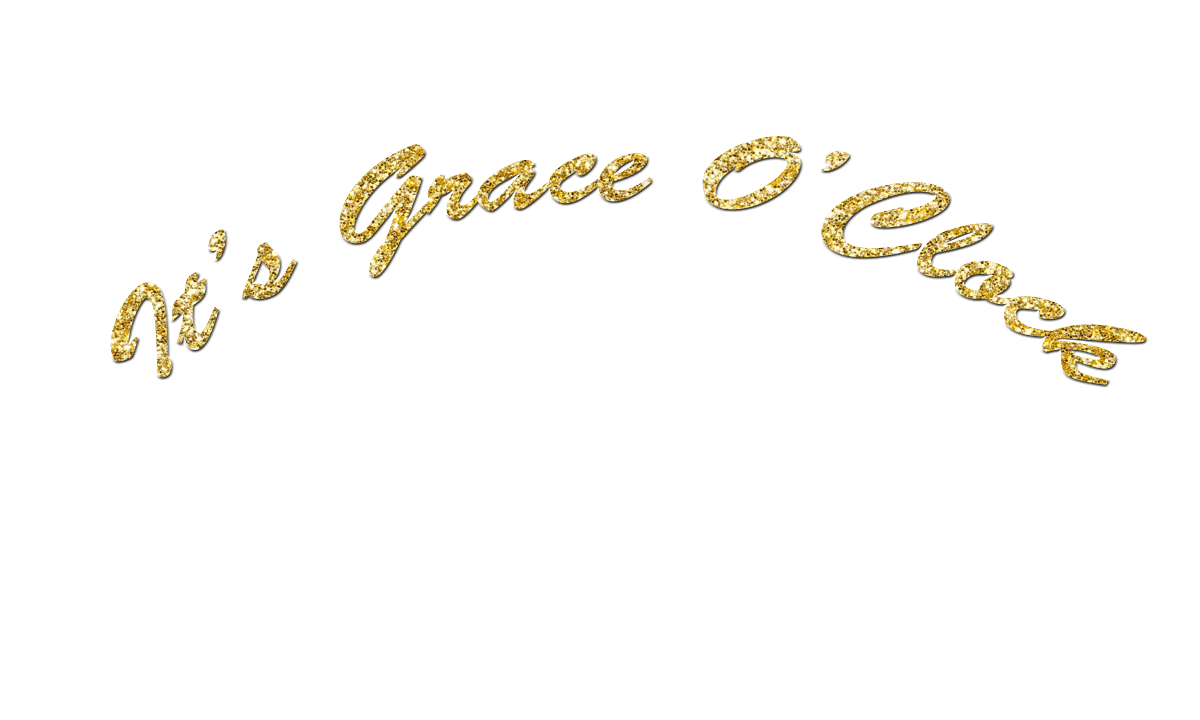
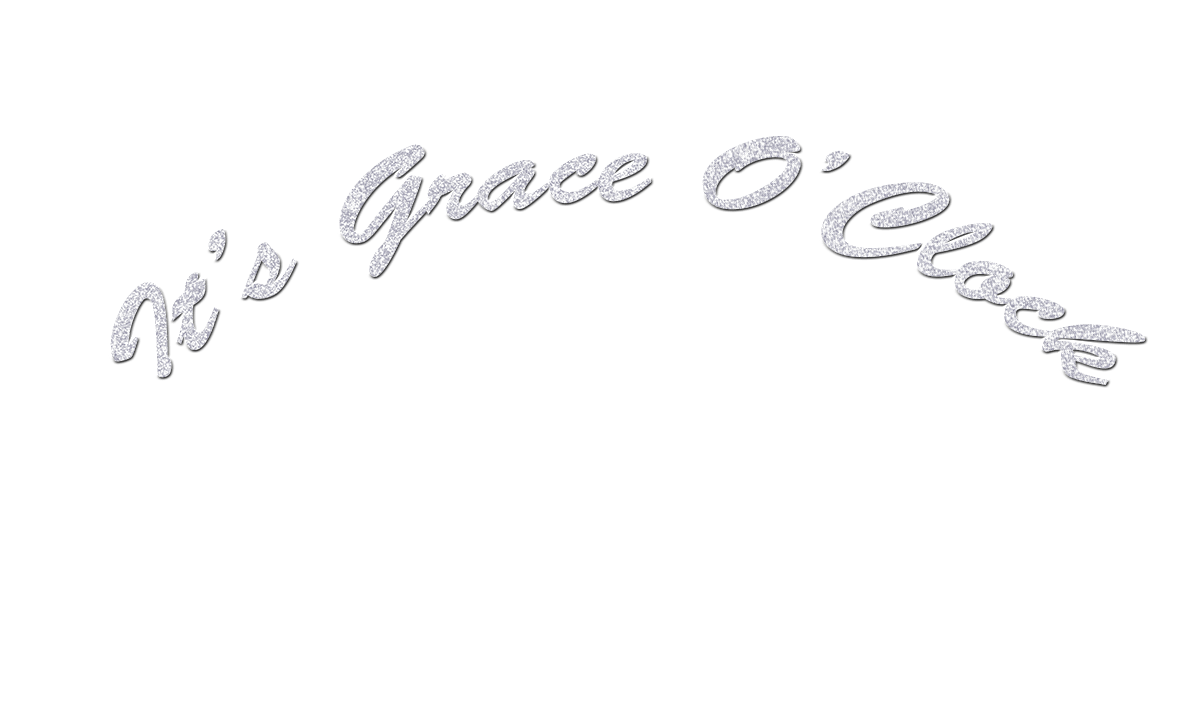
fixed style switching

diff --git a/grace/grace.js b/grace/grace.js
@@ -6,28 +6,38 @@ $(window).on('load', function () {
 	$("#preloder").delay(400).fadeOut("slow");
 });
 
-
-
 var graceHead = new Image();
 var graceBody = new Image();
 var whisker = new Image();
 var engraving = new Image();
-var clock = new Image();
 var initialBodyScale = 0.32;
 var initialHeadScale = 0.42;
 var initialWhiskerScale = 0.74;
 var initialEngravingScale = 0.5;
 var scale;
 
-var engravingVersion = 3;
-var clockVersion = 1;
+var clocks = [new Image(), new Image(), new Image(), new Image(), new Image()];
+var engravings = [new Image(), new Image(), new Image(), new Image()];
+
+var engravingVersion = 2;
+var clockVersion = 4;
 
 function init() {
     graceHead.src = "../img/grace/grace_h_cajgar.png"
     graceBody.src = "../img/grace/grace_body.png"
     whisker.src = "../img/grace/whisker.png"
-    engraving.src = "../img/grace/engraving5.png"
-    clock.src = "../img/grace/clock5.png"
+
+    clocks[0].src = "../img/grace/clock1.png"
+    clocks[1].src = "../img/grace/clock2.png"
+    clocks[2].src = "../img/grace/clock3.png"
+    clocks[3].src = "../img/grace/clock4.png"
+    clocks[4].src = "../img/grace/clock5.png"
+
+    engravings[0].src = "../img/grace/engraving1.png"
+    engravings[1].src = "../img/grace/engraving2.png"
+    engravings[2].src = "../img/grace/engraving3.png"
+    engravings[3].src = "../img/grace/engraving4.png"
+
     window.requestAnimationFrame(draw);
 }
 
@@ -53,18 +63,18 @@ function draw() {
     graceHead.scaledHeight = graceHead.height * initialHeadScale;
     whisker.scaledWidth = whisker.width * initialWhiskerScale;
     whisker.scaledHeight = whisker.height * initialWhiskerScale;
-    engraving.scaledHeight = engraving.height * initialEngravingScale;
-    engraving.scaledWidth = engraving.width * initialEngravingScale;
+    engravings[0].scaledHeight = engravings[0].height * initialEngravingScale;
+    engravings[0].scaledWidth = engravings[0].width * initialEngravingScale;
 
     // scale
     if(ctx.canvas.width <= ctx.canvas.height) {
-        scale = ctx.canvas.width/clock.width;
+        scale = ctx.canvas.width/clocks[0].width;
     } else {
-        scale = ctx.canvas.height/clock.height;
+        scale = ctx.canvas.height/clocks[0].height;
     }
 
-    clock.scaledWidth = clock.width * scale;
-    clock.scaledHeight = clock.height * scale;
+    clocks[0].scaledWidth = clocks[0].width * scale;
+    clocks[0].scaledHeight = clocks[0].height * scale;
 
     graceBody.scaledWidth = graceBody.scaledWidth * scale;
     graceBody.scaledHeight = graceBody.scaledHeight * scale;
@@ -72,8 +82,8 @@ function draw() {
     graceHead.scaledHeight = graceHead.scaledHeight * scale;
     whisker.scaledWidth = whisker.scaledWidth * scale;
     whisker.scaledHeight = whisker.scaledHeight * scale;
-    engraving.scaledHeight = engraving.scaledHeight * scale;
-    engraving.scaledWidth = engraving.scaledWidth * scale;
+    engravings[0].scaledHeight = engravings[0].scaledHeight * scale;
+    engravings[0].scaledWidth = engravings[0].scaledWidth * scale;
 
     // ---- DRAWING -----------------------
 
@@ -88,18 +98,18 @@ function draw() {
     ctx.translate(ctx.canvas.width/2, ctx.canvas.height/2);
 
     // clock face
-    ctx.drawImage(clock,
-        -clock.scaledWidth/2,
-        -clock.scaledHeight/2,
-        clock.scaledWidth,
-        clock.scaledHeight);
+    ctx.drawImage(clocks[clockVersion],
+        -clocks[0].scaledWidth/2,
+        -clocks[0].scaledHeight/2,
+        clocks[0].scaledWidth,
+        clocks[0].scaledHeight);
 
     // engraving
-    ctx.drawImage(engraving,
-        -engraving.scaledWidth/2,
-        -engraving.scaledHeight/2 - 380*initialEngravingScale*scale,
-        engraving.scaledWidth,
-        engraving.scaledHeight);    
+    ctx.drawImage(engravings[engravingVersion],
+        -engravings[0].scaledWidth/2,
+        -engravings[0].scaledHeight/2 - 380*initialEngravingScale*scale,
+        engravings[0].scaledWidth,
+        engravings[0].scaledHeight);    
 
     // minutes - body
     ctx.save();
@@ -137,24 +147,20 @@ function wheelz(e){
     if(e.shiftKey) {
         if(e.deltaY > 0) {
             engravingVersion--
-            engravingVersion = engravingVersion <= 2 ? 3 : engravingVersion;
+            engravingVersion = engravingVersion <= -1 ? 0 : engravingVersion;
         } else {
             engravingVersion++;
-            engravingVersion = engravingVersion >= 7 ? 6 : engravingVersion;
+            engravingVersion = engravingVersion >= 4 ? 3 : engravingVersion;
         }
-
-        engraving.src = "../img/grace/engraving" + engravingVersion + ".png"
 
     } else {
         if(e.deltaY > 0) {
             clockVersion--
-            clockVersion = clockVersion <= 0 ? 1 : clockVersion;
+            clockVersion = clockVersion <= -1 ? 0 : clockVersion;
         } else {
             clockVersion++;
-            clockVersion = clockVersion >= 6 ? 5 : clockVersion;
+            clockVersion = clockVersion >= 5 ? 4 : clockVersion;
         }
-
-        clock.src = "../img/grace/clock" + clockVersion + ".png"
     }
 }
 
